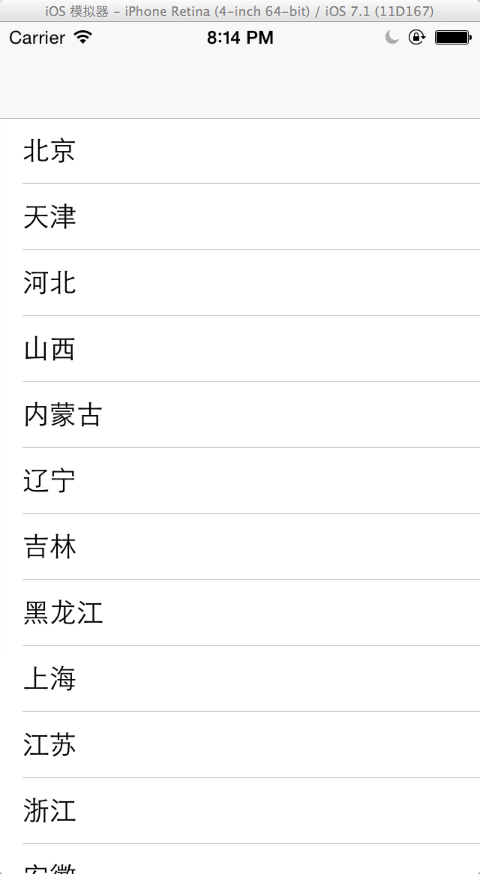
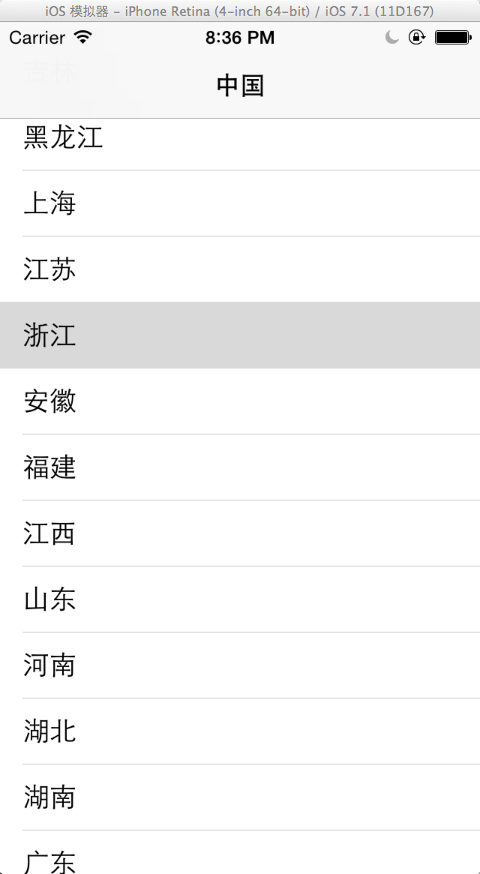
优化首页导航栏显示;优化返回按钮实现方式;更新预览图片

diff --git a/CityManagerUI/Class/Controller/CFMainController.m b/CityManagerUI/Class/Controller/CFMainController.m
@@ -72,6 +72,7 @@ static CFMainController * sharedObj = nil;
     if (self = [super init]) {
         
         CFCityViewController * countryVC = [[CFCityViewController alloc] initWithLevel:COUNTRY];
+        countryVC.title = @"中国";
         self.countryVC = countryVC;
         [countryVC release];
         
@@ -131,13 +132,6 @@ static CFMainController * sharedObj = nil;
     self.provinceVC.infoOfCities = [self infoOfProvince: province];
     self.provinceVC.title = province;
     
-    if (nil == self.provinceVC.navigationItem.leftBarButtonItem &&
-        self.provinceVC != self.navController.viewControllers[0]) { // 添加返回按钮.
-        UIBarButtonItem * backBarButtonItem = [[UIBarButtonItem alloc] initWithTitle:@"返回" style:UIBarButtonItemStylePlain target:self action:@selector(didClickBackButtonItemAction:)];
-        self.provinceVC.navigationItem.leftBarButtonItem = backBarButtonItem;
-        [backBarButtonItem release];
-    }
-    
     if (YES == [self.navController.viewControllers containsObject: self.provinceVC]) {
         [self.navController popToViewController:self.provinceVC animated: YES];
     }
@@ -151,13 +145,6 @@ static CFMainController * sharedObj = nil;
     self.cityVC.infoOfCities = [self infoOfCity: city province: province];
     self.cityVC.title = city;
     
-    if (nil == self.cityVC.navigationItem.leftBarButtonItem &&
-        self.cityVC != self.navController.viewControllers[0]) {  // 添加返回按钮.
-        UIBarButtonItem * backBarButtonItem = [[UIBarButtonItem alloc] initWithTitle:@"返回" style:UIBarButtonItemStylePlain target:self action:@selector(didClickBackButtonItemAction:)];
-        self.cityVC.navigationItem.leftBarButtonItem = backBarButtonItem;
-        [backBarButtonItem release];
-    }
-    
     if (YES == [self.navController.viewControllers containsObject: self.cityVC]) {
         [self.navController popToViewController:self.cityVC animated: YES];
     }
@@ -165,11 +152,6 @@ static CFMainController * sharedObj = nil;
 
     
     [self.navController pushViewController:self.cityVC animated:YES];
-}
-
-- (void) didClickBackButtonItemAction: (UIBarButtonItem *) buttonItem
-{
-    [self.navController popViewControllerAnimated:YES];
 }
 
 @end

diff --git a/CityManagerUI/Class/Controller/CFMainController.h b/CityManagerUI/Class/Controller/CFMainController.h
@@ -70,11 +70,4 @@
 - (void) switchToInfoViewOfCity:(NSString *) city
                        province: (NSString *) province;
 
-/**
- *  响应事件:点击导航栏返回按钮.
- *
- *  @param buttonItem 返回按钮.
- */
-- (void) didClickBackButtonItemAction: (UIBarButtonItem *) buttonItem;
-
 @end
